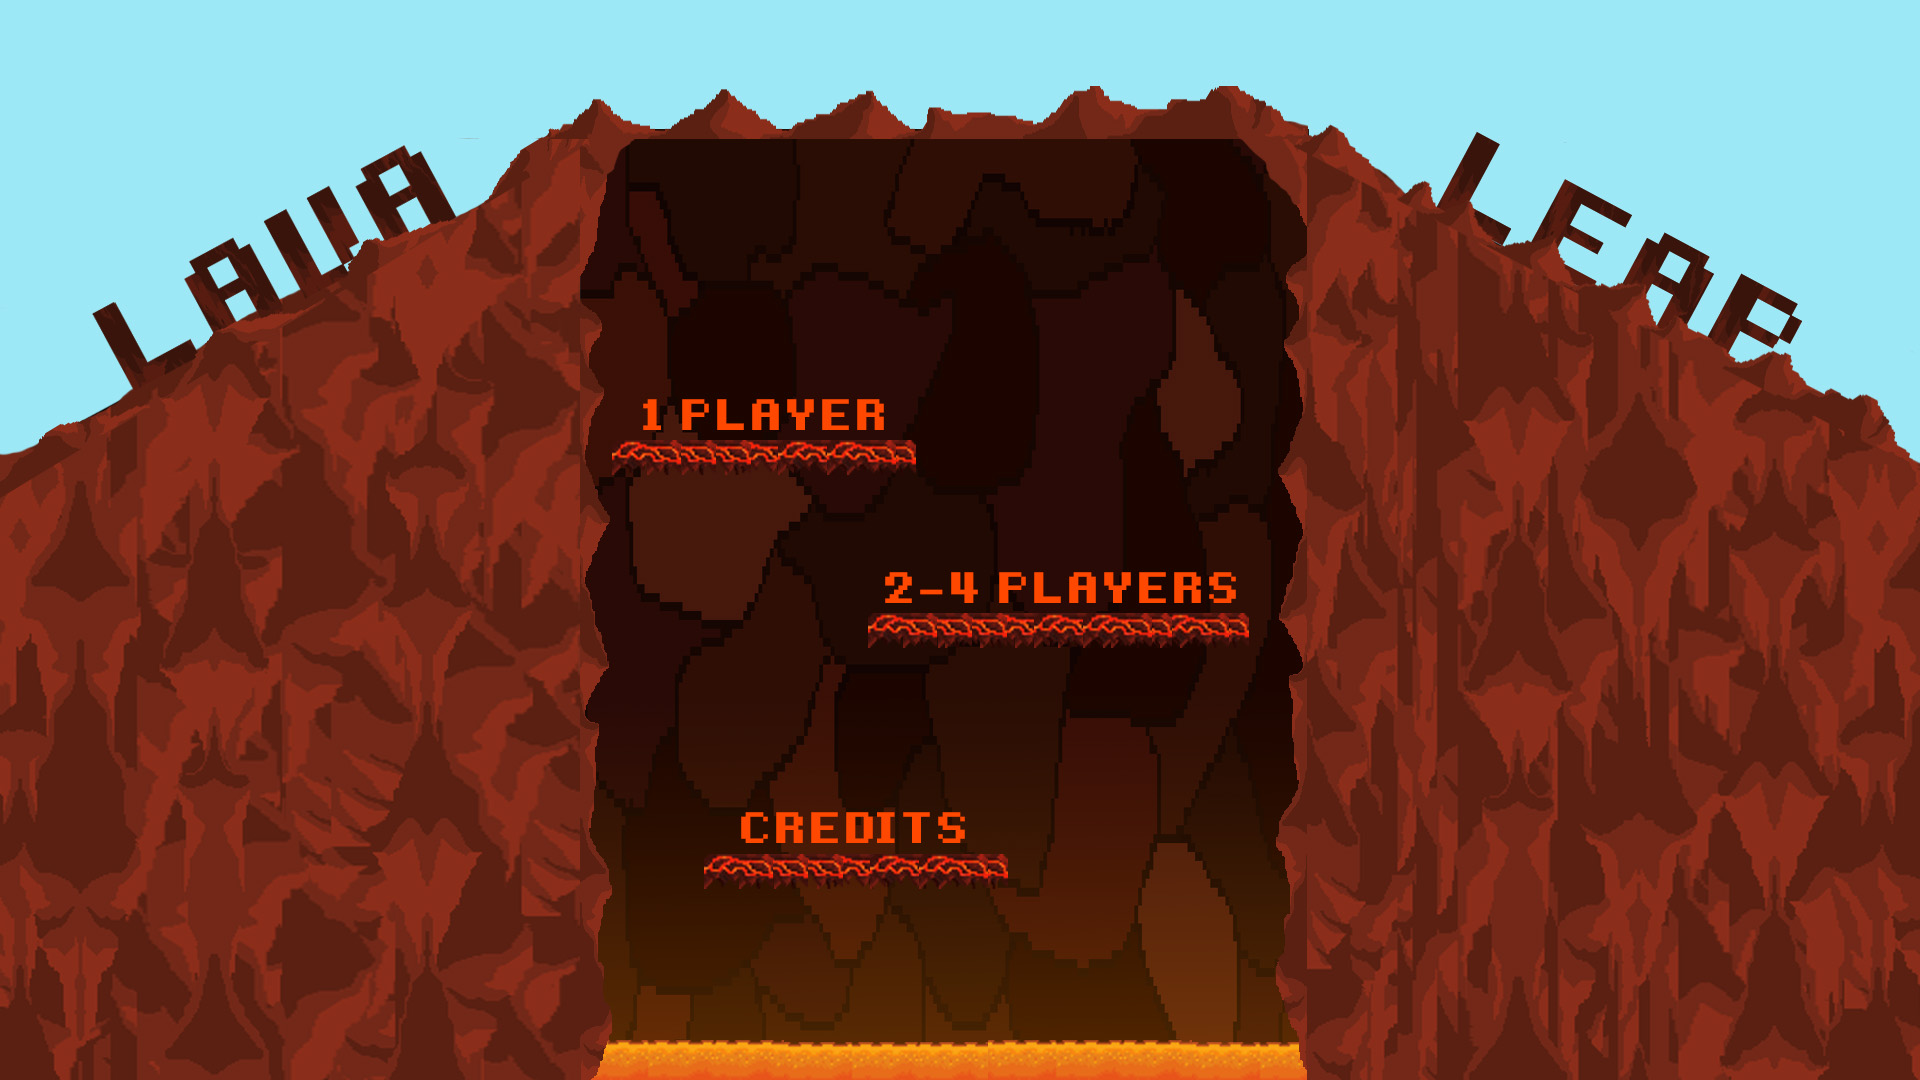
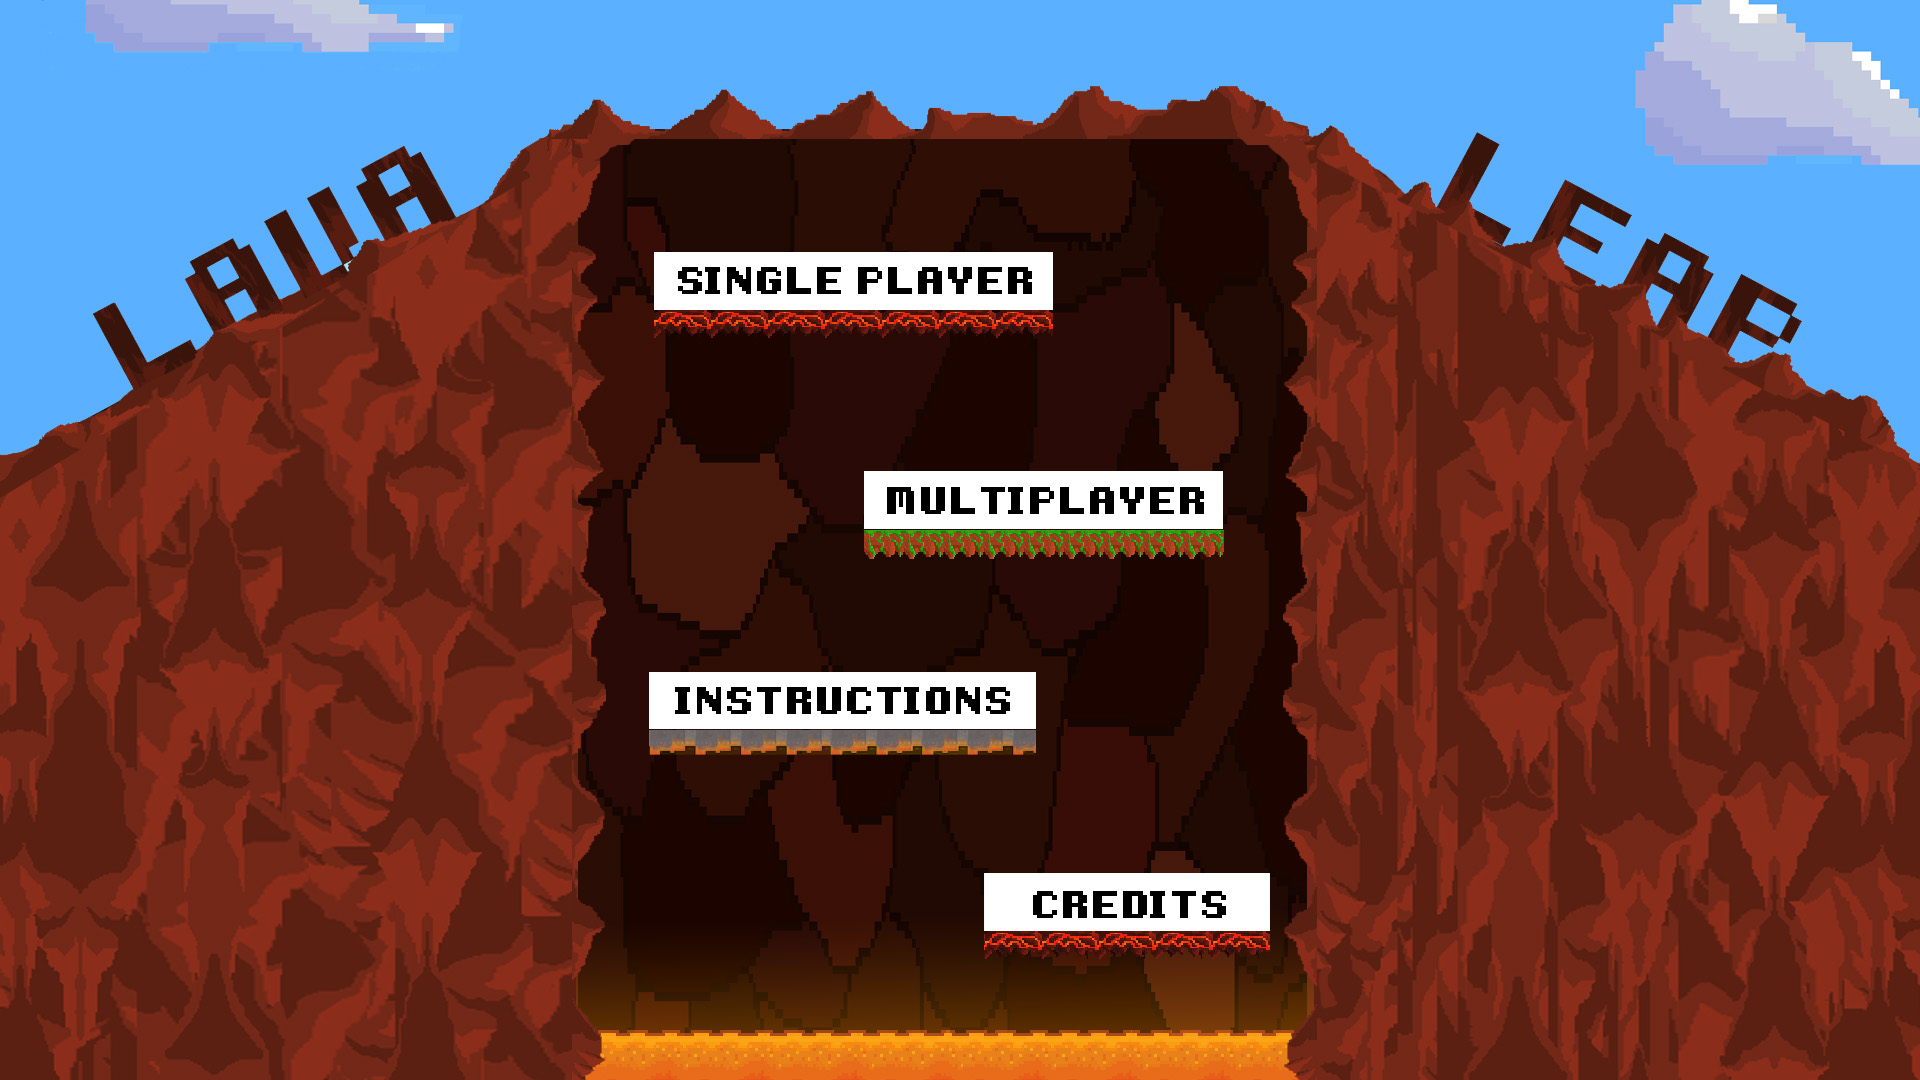
Added instructions screen, fixed some menu bugs

diff --git a/js/main.js b/js/main.js
@@ -60,6 +60,20 @@ app.main = {
 	singleClock:0,
 	fadeAlph: 1,
 	fadeout: undefined,
+	
+	//instuction screen images
+	insBackground: undefined,
+	insIntro: undefined,
+	insSingle: undefined,
+	insMulti: undefined,
+	insXcontrols: undefined,
+	insKcontrols:undefined,
+	insPlat:undefined,
+	insStick: undefined,
+	insTramp:undefined,
+	insGhost:undefined,
+	insState: undefined,
+	insTick: 10,
     
     // methods
 	init : function() {
@@ -155,6 +169,8 @@ app.main = {
 		this.lavaImage = new Image();
 		this.lavaImage.src = "img/lava_mid.png";
 		
+		this.loadImgs();
+		
 		//tramp tile
 		var platformImage = new Image();
 		platformImage.src = "img/jumpirontile_animated_v2.png";
@@ -197,6 +213,7 @@ app.main = {
 		
 		this.gamestate = "TITLE";
 		this.menuState = 1;
+		this.insState = 1;
 		this.update();
 	},
 	
@@ -246,6 +263,7 @@ app.main = {
 			
 		this.gamestate = gamestate;
 		this.menuState = 1;
+		this.insState = 1;
 	},
 		
 	draw: function()
@@ -256,19 +274,32 @@ app.main = {
 		
 		if(this.gamestate == "TITLE"){
 			
+		var titleAlpha = .7;	
 			this.ctx.drawImage(this.TitleScreen, 0, 0);
 		
 			if(this.menuState == 1){
-				this.drawLib.alpharect(this.ctx,635,395,260,40,"#fff",0.2 );
-			
+				
+				this.drawLib.alpharect(this.ctx,654,252,399,58,"#e86c1a",titleAlpha );
 			}
 			if(this.menuState == 2){
-				this.drawLib.alpharect(this.ctx,877,568,367,40,"#fff",0.2 );
+				this.drawLib.alpharect(this.ctx,864,471,359,58,"#e86c1a",titleAlpha );
 			
 			}
 			if(this.menuState == 3){
-				this.drawLib.alpharect(this.ctx,736,809,234,40,"#fff",0.2 );
+				
+				
+				this.drawLib.alpharect(this.ctx,649,672,387,57,"#e86c1a",titleAlpha);
 			
+			}
+			if(this.menuState == 4){
+				this.drawLib.alpharect(this.ctx,984,873,286,58,"#e86c1a",titleAlpha );
+			}
+			
+			if(pad[0] != undefined ){
+				this.drawLib.fadeText(this.ctx,'Use the Analog Stick or D-pad to Navigate and press A or START to select ',width/2,40,25,'#fff',this.fadeAlph);
+			}
+			else{
+				this.drawLib.fadeText(this.ctx,'Use the arrow keys to navigate and press [enter] to select',width/2,40,25,'#fff',this.fadeAlph);
 			}
 			
 		}
@@ -342,10 +373,10 @@ app.main = {
 			}
 			
 			if(pad[0] != undefined ){
-				this.drawLib.fadeText(this.ctx,'Press B to return to the title Screen',width/2,40,25,'#fff',this.fadeAlph);
+				this.drawLib.fadeText(this.ctx,'Press B to return to the main',width/2,40,25,'#fff',this.fadeAlph);
 			}
 			else{
-				this.drawLib.fadeText(this.ctx,'Press [backspace] to return to the title Screen',width/2,40,25,'#fff',this.fadeAlph);
+				this.drawLib.fadeText(this.ctx,'Press [backspace] to return to the main menu',width/2,40,25,'#fff',this.fadeAlph);
 			}
 			
 		}
@@ -610,6 +641,76 @@ app.main = {
 			
 			
 		}
+		if(this.gamestate == "INS"){
+		this.drawINS();
+		}
+	},
+	drawINS: function(){
+	
+		
+			var selectAlpha = 0.7;	
+			var width = this.WIDTH;
+			var height = this.HEIGHT;
+			var pad = navigator.getGamepads();
+			
+			this.ctx.drawImage(this.insBackground, 0, 0);
+		
+			if(this.insState == 1){
+					//intro
+					this.drawLib.alpharect(this.ctx,110,142,451,85,"#e86c1a",selectAlpha );
+					this.ctx.drawImage(this.insIntro, 800, 196,1000,714);
+		
+			}
+			if(this.insState == 2){
+					//singleplayer
+					this.drawLib.alpharect(this.ctx,110,255,451,85,"#e86c1a",selectAlpha );
+					this.ctx.drawImage(this.insSingle, 800, 196,1000,714);
+			}
+			if(this.insState == 3){
+				//multiplayer
+					this.drawLib.alpharect(this.ctx,110,367,451,85,"#e86c1a",selectAlpha );
+					this.ctx.drawImage(this.insMulti, 800, 196,1000,714);
+			}
+			if(this.insState == 4){
+				//platforms
+					this.drawLib.alpharect(this.ctx,110,480,451,85,"#e86c1a",selectAlpha );
+					this.ctx.drawImage(this.insPlat, 800, 196,1000,714);
+			}
+			if(this.insState == 5){
+				//bouncy	
+					this.drawLib.alpharect(this.ctx,110,590,451,85,"#e86c1a",selectAlpha );
+					this.ctx.drawImage(this.insTramp, 800, 196,1000,714);
+			}
+			if(this.insState == 6){
+				//ghost
+					this.drawLib.alpharect(this.ctx,110,703,451,85,"#e86c1a",selectAlpha );
+					this.ctx.drawImage(this.insGhost, 800, 196,1000,714);
+			}
+			if(this.insState == 7){
+				//sticky	
+					this.drawLib.alpharect(this.ctx,110,815,451,85,"#e86c1a",selectAlpha );
+					this.ctx.drawImage(this.insStick, 800, 196,1000,714);
+			}
+			if(this.insState == 8){
+				//controls	
+					this.drawLib.alpharect(this.ctx,110,928,451,85,"#e86c1a",selectAlpha );
+					if(pad[0] != undefined ){
+					this.ctx.drawImage(this.insXcontrols, 800, 196,1000,714);
+					}
+					else{
+						this.ctx.drawImage(this.insKcontrols, 800, 196,1000,714);
+					
+					}
+					
+			}
+			if(pad[0] != undefined ){
+				this.drawLib.fadeText(this.ctx,'Press B to return to the main menu',width - 300,40,25,'#fff',this.fadeAlph);
+			}
+			else{
+				this.drawLib.fadeText(this.ctx,'Press [backspace] to return to the main menu',width- 400,40,25,'#fff',this.fadeAlph);
+			}
+			
+		
 	},
 	
 	checkCollosions: function()
@@ -733,12 +834,12 @@ app.main = {
 		this.titleTick --;
 		var makeSound = false;
 		
-			if(this.menuState > 3 ){
+			if(this.menuState > 4 ){
 					this.menuState = 1;
 					
 			}
 			if(this.menuState < 1 ){
-					this.menuState = 3;
+					this.menuState = 4;
 					
 			}
 			
@@ -761,7 +862,7 @@ app.main = {
 					}
 					
 				}
-				if(pad[i] != undefined && pad[i].buttons[9].pressed){
+				if(pad[i] != undefined && pad[i].buttons[9].pressed || pad[i] != undefined && pad[i].buttons[0].pressed ){
 							if(this.menuState == 1){
 								if(this.startButtonTick < 0 ){
 									
@@ -782,6 +883,11 @@ app.main = {
 							}
 							if(this.menuState == 3){
 								
+								if(this.startButtonTick < 0 ){
+									this.gamestate = "INS";
+									this.startButtonTick = 30;
+									makeSound=true;
+								}
 							}
 					
 				}
@@ -813,7 +919,7 @@ app.main = {
 					
 				}
 				if(this.menuState == 3){
-					
+					this.gamestate = "INS";
 				}
 				
 			}
@@ -1033,8 +1139,112 @@ app.main = {
 		
 		}
 		
+		if(this.gamestate == "INS"){
+		this.insTick --;
+		var makeSound = false;
+		
+			if(this.insState > 8 ){
+					this.insState = 1;
+					
+			}
+			if(this.insState < 1 ){
+					this.insState = 8;
+					
+			}
+			
+			for(var i = 0; i < pad.length; i++)
+			{
+				if(pad[i] != undefined && ((pad[i].axes[1] > 0.2) || (pad[i].buttons[13].pressed))){
+					if(this.insTick <=0 ){
+						this.insState ++;
+						this.insTick = 15;
+						console.log(this.insState);
+						makeSound=true;
+					}
+					
+				}
+				if(pad[i] != undefined && ((pad[i].axes[1] < -0.2) || (pad[i].buttons[12].pressed))){
+					if(this.insTick <=0 ){
+						this.insState --;
+						this.insTick = 15;
+						makeSound=true;
+					}
+					
+				}
+				if(pad[i] != undefined && pad[i].buttons[1].pressed){
+					if(this.startButtonTick < 0 ){
+						this.reset("TITLE");
+						this.startButtonTick = 30;
+						
+					}
+				}
+		
+			}
+			if(app.keydown[38]){
+			if(this.insTick <=0 ){
+						this.insState --;
+						this.insTick = 15;
+						makeSound=true;
+					}
+				
+			}
+			if(app.keydown[40]){
+				if(this.insTick <=0 ){
+						this.insState ++;
+						this.insTick = 15;
+						makeSound=true;
+					}
+				
+			}
+			if(app.keydown[8]){
+			
+				if(this.startButtonTick < 0 ){
+						this.reset("TITLE");
+						this.startButtonTick = 30;
+						
+					}
+		}
+			
+		
+		}
+		
 		this.checkCollosions()
 		this.draw();
+	},
+	
+	loadImgs: function(){
+	
+	
+		this.insBackground = new Image();
+		this.insBackground.src = "img/instructions/INS.jpg";
+		
+		this.insIntro= new Image();
+		this.insIntro.src = "img/instructions/intro.png";
+		
+		this.insSingle = new Image();
+		this.insSingle.src = "img/instructions/singleplayer.png";
+		
+		this.insMulti= new Image();
+		this.insMulti.src = "img/instructions/multiplayer.png";
+		
+		this.insXcontrols = new Image();
+		this.insXcontrols.src = "img/instructions/controls.png";
+		
+		this.insKcontrols = new Image();
+		this.insKcontrols.src = "img/instructions/keycontrols.png";
+		
+	   this. insPlat = new Image();
+		this.insPlat.src = "img/instructions/normPlat.png";
+		
+	   this. insStick = new Image();
+		this.insStick.src = "img/instructions/stickyPlat.png";
+		
+		this.insTramp= new Image();
+		this.insTramp.src = "img/instructions/trampPlat.png";
+		
+		this.insGhost = new Image();
+		this.insGhost.src = "img/instructions/ghostPlat.png";
+	
 	},
 	
     
